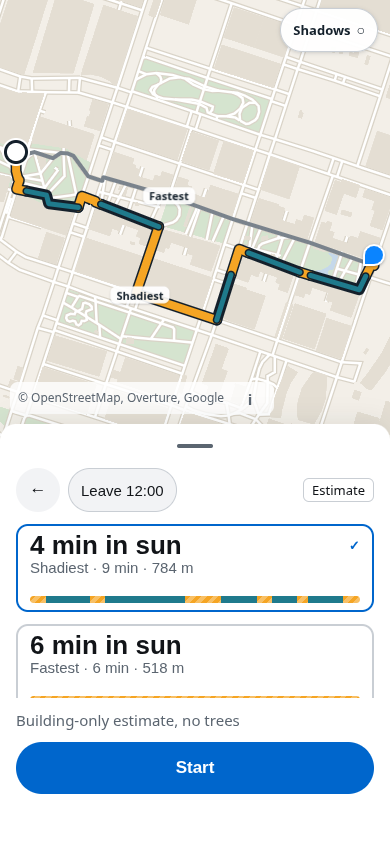
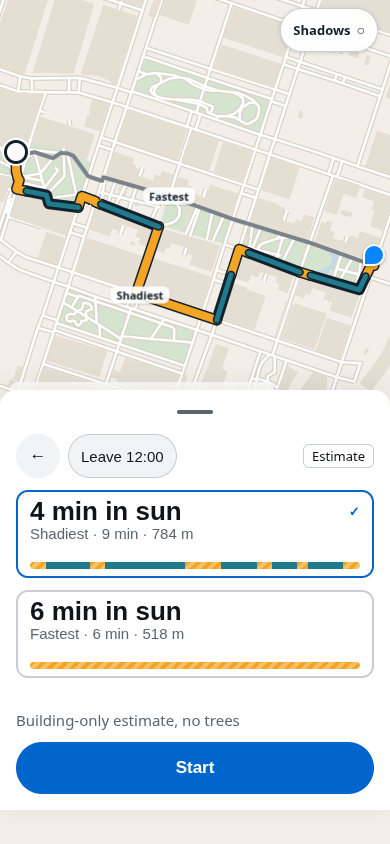
Fix safe-area button clearance, map fit padding, and smoke guards
Lift Compare and In-route phone sheets on --safe-bottom with 16px footer padding so Start and End sit 50px above the viewport bottom at safe-34. Refactor phoneMapPadding for a strict typecheck test, clamp fitBounds padding, and skip attribution layout when detached. Smoke now fails on console or page errors and asserts bottom clearance >= 50.

diff --git a/apps/web/src/map/view.ts b/apps/web/src/map/view.ts
@@ -296,21 +296,29 @@ export function createMapLibreView(root: HTMLElement): MapView {
       whenLoaded(() => map.easeTo(easeOptions(camera, durationMs)));
     },
     fit(bounds, padding, camera, durationMs) {
-      whenLoaded(() =>
-        map.fitBounds(
-          [
-            [bounds[0], bounds[1]],
-            [bounds[2], bounds[3]],
-          ],
-          {
-            padding,
-            duration: durationMs,
-            pitch: 0,
-            bearing: camera.bearing,
-            maxZoom: 17,
-          },
-        ),
-      );
+      whenLoaded(() => {
+        const container = map.getContainer();
+        if (!container.isConnected || container.clientWidth < 2 || container.clientHeight < 2) return;
+        const inset = clampFitPadding(padding, container.clientWidth, container.clientHeight);
+        if (!inset) return;
+        try {
+          map.fitBounds(
+            [
+              [bounds[0], bounds[1]],
+              [bounds[2], bounds[3]],
+            ],
+            {
+              padding: inset,
+              duration: durationMs,
+              pitch: 0,
+              bearing: camera.bearing,
+              maxZoom: 17,
+            },
+          );
+        } catch {
+          // fitBounds can fail when padding exceeds the map or the map is torn down mid-frame.
+        }
+      });
     },
     setMarkers(start, end, labels) {
       startMarker = placeMarker(map, startMarker, start, "start", labels?.startLabel);
@@ -525,6 +533,30 @@ function emptyCollection() {
 
 function positions(line: readonly LngLat[]): [number, number][] {
   return line.map((point) => [point[0], point[1]]);
+}
+
+export function clampFitPadding(
+  padding: { readonly top: number; readonly right: number; readonly bottom: number; readonly left: number },
+  width: number,
+  height: number,
+): { top: number; right: number; bottom: number; left: number } | null {
+  const maxVertical = Math.max(0, height - 2);
+  const maxHorizontal = Math.max(0, width - 2);
+  if (padding.top + padding.bottom >= maxVertical || padding.left + padding.right >= maxHorizontal) {
+    const scale = Math.min(
+      maxVertical / Math.max(1, padding.top + padding.bottom),
+      maxHorizontal / Math.max(1, padding.left + padding.right),
+      1,
+    );
+    if (scale <= 0) return null;
+    return {
+      top: Math.floor(padding.top * scale),
+      right: Math.floor(padding.right * scale),
+      bottom: Math.floor(padding.bottom * scale),
+      left: Math.floor(padding.left * scale),
+    };
+  }
+  return padding;
 }
 
 function easeOptions(camera: CameraMove, durationMs: number): EaseToOptions {

diff --git a/apps/web/src/map/sheet-padding.ts b/apps/web/src/map/sheet-padding.ts
@@ -1,10 +1,19 @@
+export function phoneMapPadding(
+  safeTopPx: number,
+  safeBottomPx: number,
+  sheetHeightPx: number,
+): { top: number; right: number; bottom: number; left: number } {
+  return { top: 64 + safeTopPx, right: 16, bottom: sheetHeightPx + 16 + safeBottomPx, left: 16 };
+}
+
 export function computeSheetPadding(): { top: number; right: number; bottom: number; left: number } {
   const sheet = document.querySelector(".shadeway-sheet");
   const wide = window.matchMedia("(min-width: 900px)").matches;
   const root = document.documentElement;
   const safeTop = Number.parseFloat(getComputedStyle(root).getPropertyValue("--safe-top")) || 0;
-  if (wide) return { top: 32 + safeTop, right: 32, bottom: 32, left: 416 };
+  const safeBottom = Number.parseFloat(getComputedStyle(root).getPropertyValue("--safe-bottom")) || 0;
+  if (wide) return { top: 32 + safeTop, right: 32, bottom: 32 + safeBottom, left: 416 };
   const rect = sheet instanceof HTMLElement ? sheet.getBoundingClientRect() : null;
   const sheetHeight = rect ? Math.round(rect.height) : 176;
-  return { top: 64 + safeTop, right: 16, bottom: sheetHeight + 16, left: 16 };
+  return phoneMapPadding(safeTop, safeBottom, sheetHeight);
 }

diff --git a/apps/web/src/map/sheet-padding.test.ts b/apps/web/src/map/sheet-padding.test.ts
@@ -1,23 +1,13 @@
-// @vitest-environment happy-dom
-import { describe, expect, it, vi } from "vitest";
+import { describe, expect, it } from "vitest";
+import { phoneMapPadding } from "./sheet-padding";
 
-describe("sheet map padding", () => {
-  it("includes the top safe inset in phone padding", async () => {
-    vi.stubGlobal(
-      "matchMedia",
-      (query: string) =>
-        ({
-          matches: query.includes("min-width: 900px") ? false : false,
-          media: query,
-          addEventListener: () => {},
-          removeEventListener: () => {},
-        }) as unknown as MediaQueryList,
-    );
-    document.documentElement.style.setProperty("--safe-top", "47px");
-    const { computeSheetPadding } = await import("./sheet-padding");
-    const padding = computeSheetPadding();
-    expect(padding.top).toBe(64 + 47);
-    document.documentElement.style.removeProperty("--safe-top");
-    vi.unstubAllGlobals();
+describe("phoneMapPadding", () => {
+  it("includes the top safe inset and lifts map padding for the bottom inset", () => {
+    expect(phoneMapPadding(47, 34, 420)).toEqual({
+      top: 111,
+      right: 16,
+      bottom: 470,
+      left: 16,
+    });
   });
 });

diff --git a/apps/web/src/ui/styles.ts b/apps/web/src/ui/styles.ts
@@ -129,10 +129,12 @@ export const UI_STYLES = `
 }
 
 .shadeway-sheet[data-screen='compare'] {
+  bottom: var(--safe-bottom);
   height: min(62dvh, 420px);
 }
 
 .shadeway-sheet[data-screen='in-route'] {
+  bottom: var(--safe-bottom);
   height: auto;
   max-height: min(62dvh, calc(100dvh - var(--safe-top) - 48px));
 }
@@ -236,7 +238,7 @@ export const UI_STYLES = `
   display: flex;
   flex-direction: column;
   gap: var(--space-3);
-  padding-bottom: calc(16px + var(--safe-bottom));
+  padding-bottom: var(--space-4);
 }
 
 .search-fields {
@@ -488,7 +490,7 @@ export const UI_STYLES = `
 }
 
 .in-route-screen {
-  padding-bottom: calc(16px + var(--safe-bottom));
+  padding-bottom: var(--space-4);
 }
 
 .in-route-screen__status {

diff --git a/apps/web/src/map/map-view.test.ts b/apps/web/src/map/map-view.test.ts
@@ -1,5 +1,13 @@
 import { describe, expect, it } from "vitest";
-import { shadowLayerVisibility } from "./view";
+import { clampFitPadding, shadowLayerVisibility } from "./view";
+
+describe("clampFitPadding", () => {
+  it("scales padding down when it would exceed the map viewport", () => {
+    const inset = clampFitPadding({ top: 64, right: 16, bottom: 436, left: 16 }, 390, 844);
+    expect(inset).not.toBeNull();
+    expect(inset!.top + inset!.bottom).toBeLessThan(844);
+  });
+});
 
 describe("shadowLayerVisibility", () => {
   it("hides all shadow layers when off and shows fill plus estimated edge when on", () => {

diff --git a/apps/web/src/map/controller.ts b/apps/web/src/map/controller.ts
@@ -389,6 +389,7 @@ function showMissing(message: HTMLElement, error: unknown): void {
 
 function watchSheet(attribution: HTMLElement, shadowToggle: HTMLElement, onDetent: () => void): void {
   const place = () => {
+    if (!attribution.isConnected || !shadowToggle.isConnected) return;
     const sheet = document.querySelector(".shadeway-sheet");
     const height = sheet instanceof HTMLElement ? sheet.getBoundingClientRect().height : 0;
     const floating = sheet instanceof HTMLElement && sheet.getBoundingClientRect().width < window.innerWidth - 48;

diff --git a/docs/design.md b/docs/design.md
@@ -40,7 +40,7 @@ Flat 2D Shadeway UI per ENG-021. Mobile-first at 390x844, desktop side panel at 
 ## Map
 
 - Flat basemap, building footprints near the route, optional shadows (fill plus estimated edge only when on; all shadow layers off by default via the Shadows map control), sun/shade route styling per ENG-021 tokens.
-- Phone Search half sheet is `176px` plus `--safe-bottom` on the sheet; Compare and In-route budget `--safe-bottom` once on footer or screen padding (`16px + var(--safe-bottom)`), not on sheet height.
+- Phone Search half sheet is `176px` plus `--safe-bottom` on the sheet. Compare and In-route phone sheets sit on `bottom: var(--safe-bottom)` with `16px` footer or screen padding above that inset (50px total when safe is 34px).
 - Other phone content stacks: Search peek `96px`, Compare body up to `420px` / `62dvh`, In-route height content-driven up to `62dvh`.
 - No place-name labels on the map; start and end markers and attribution stay.
 - Pitch and bearing 0; rotation locked.
